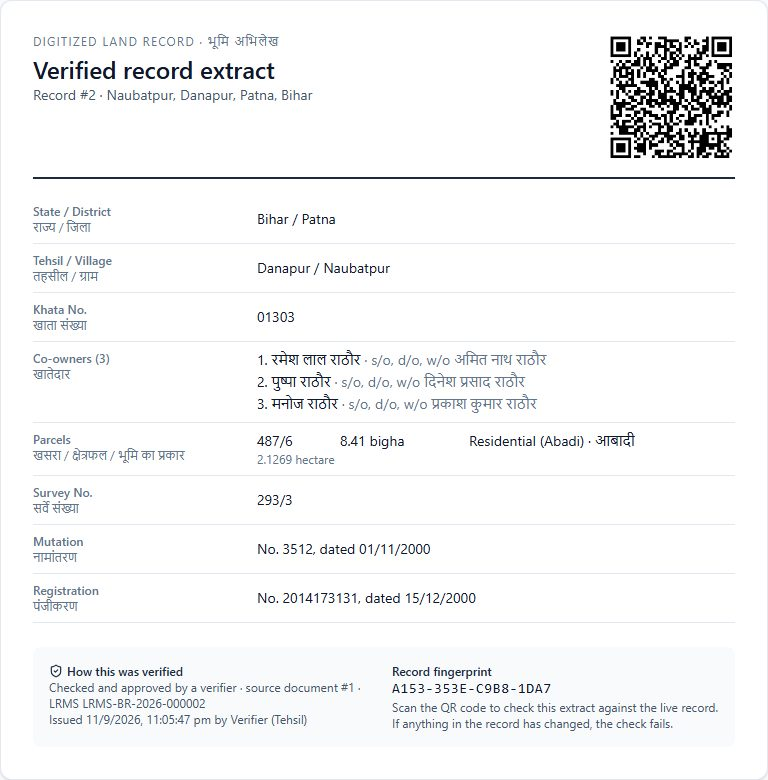
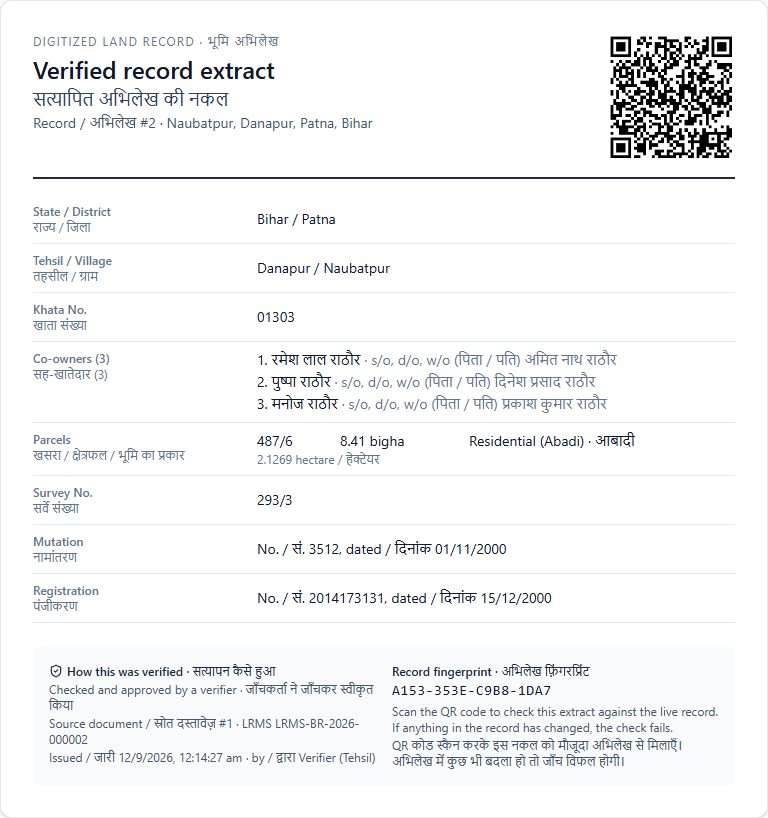
refresh readme screenshots and add the review screen in hindi

Changed region(s): [[0.0312, 0.0308, 0.9688, 0.7692], [0.0312, 0.5231, 0.9375, 0.9538], [0.0312, 0.0308, 0.4688, 0.1538]]

diff --git a/README.md b/README.md
@@ -56,6 +56,10 @@ Every screen works in Hindi and English (one click in the sidebar): labels, revi
 | ![Verified extract with QR code](docs/screenshots/5-verified-extract.jpg) | ![Public check on a phone](docs/screenshots/6-public-check-phone.jpg) |
 | **Verified extract**: printable and bilingual, with a tamper-evident fingerprint and QR code | **Public check**: anyone scanning the QR sees, in English and Hindi, whether the paper still matches the record |
 
+**हिंदी में (in Hindi)**: the same review screen after one click on the language switch.
+
+![Review screen in Hindi](docs/screenshots/7-review-hindi.jpg)
+
 ## What maps to the problem statement
 
 | PS 26018 asks for | In LandLekha |
